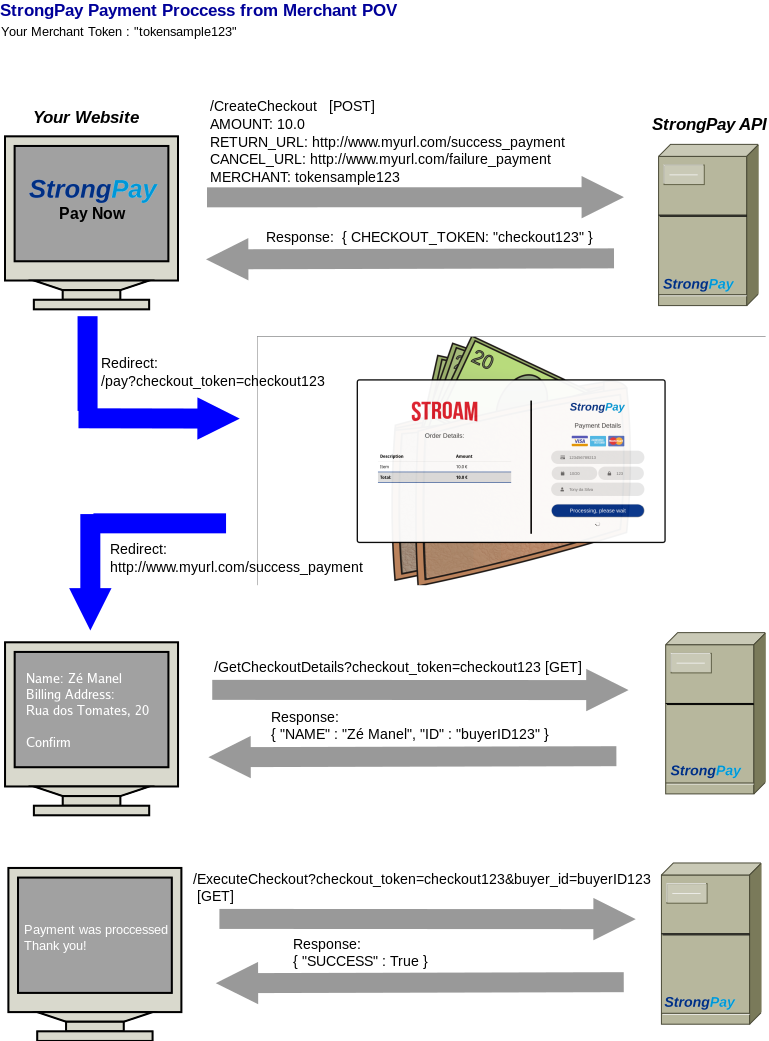
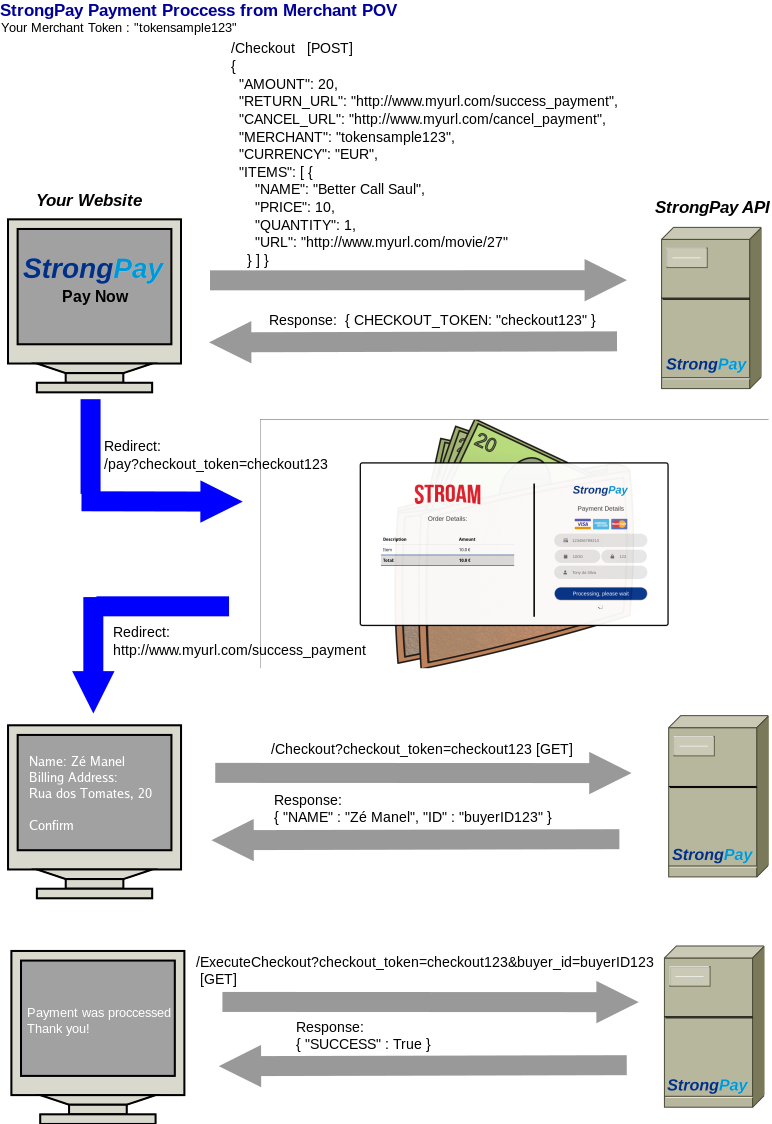
Bug Fix on /pay and Payment diagram updated

diff --git a/payment/app.py b/payment/app.py
@@ -1099,12 +1099,14 @@ def pay():
 
     # Getting row from database of the checkout
     checkout = db.get('CHECKOUT', 'id', args['checkout_token']);
-    items = db.get_all('ITEM', 'checkout', args['checkout_token']);
-    merchant = db.get('MERCHANT', 'id', checkout['merchant'])
 
     # Checking if checkout is valid
     if not checkout:
         return redirect(url_for('index', error = "invalid_checkout"))
+
+    # Get items and merchant
+    items = db.get_all('ITEM', 'checkout', args['checkout_token']);
+    merchant = db.get('MERCHANT', 'id', checkout['merchant'])
 
     # Checking if checkout was already paid
     if checkout['status'] != "CREATED":
